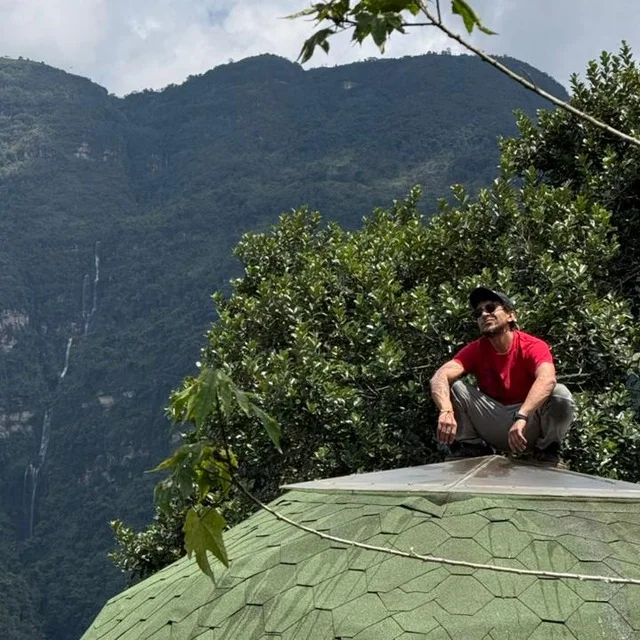
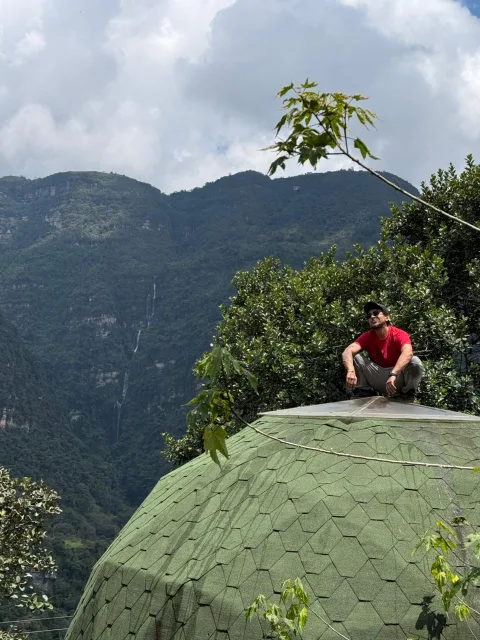
fix(critical): foto correcta del operador + iconos reducidos drásticamente
## Cagada 1 — foto incorrecta

Durante el rediseño, jamás actualicé miguel.webp en el repo correcto
(chagra-landing). El repo tenía la foto vieja del commit 715047e
"foto real del operador en cúpula" que el operador no reconoce como
suya. Mi conversión correcta desde /home/kortux/me.jpeg vivía en el
repo equivocado (chagra.bio vacío).

Fix: copiada la conversión correcta (md5 4c53412af71d685e7795fe42fde5e4f6)
desde /tmp/chagra.bio-clone/assets/miguel.webp al repo deploy.

## Cagada 2 — iconos gigantes

Los SVGs hero del artículo (height: 200px) + card icons (56px) + parte
numero (3.5rem) + drop cap (4.5rem) + pull quote (1.5rem) eran todos
demasiado grandes. Resultaron en una página "asquerosa" (palabras del
operador).

Fix:
- card icon aprender: 56px → 36px (con opacity 0.85)
- mobile card icon: → 30px
- article hero illustration: height 200px → 110px, max-width 520→380px,
  con opacity 0.75 para que no robe protagonismo
- mobile hero illustration: 140px → 80px, max-width 280px
- parte numero: 3.5rem → 2.2rem con opacity 0.7
- stat number: 3rem → 2.25rem
- drop cap: 4.5rem → 2.8rem, sin gradient escandaloso (color emerald simple)
- drop cap selector más restrictivo (solo después de key-takeaways)
- pull quote: 1.5rem → 1.2rem, peso 500 (era 600)

El contenido sigue siendo rico pero ahora los elementos visuales
acompañan en lugar de gritar.

diff --git a/styles.css b/styles.css
@@ -293,7 +293,7 @@ strong{color:var(--fg);font-weight:600}
 .aprender-card::before{content:"";position:absolute;top:0;left:0;right:0;height:3px;background:linear-gradient(90deg,#10b981,#06b6d4);opacity:.6;transition:opacity .25s ease}
 .aprender-card:hover{border-color:#10b981;transform:translateY(-4px);background:linear-gradient(140deg,rgba(16,185,129,.12) 0%,rgba(6,182,212,.07) 50%,rgba(255,255,255,.03) 100%);text-decoration:none;box-shadow:0 12px 32px rgba(16,185,129,.15)}
 .aprender-card:hover::before{opacity:1}
-.aprender-card-icon{width:56px;height:56px;color:#10b981;margin-bottom:.25rem;flex-shrink:0}
+.aprender-card-icon{width:36px;height:36px;color:#10b981;margin-bottom:.1rem;flex-shrink:0;opacity:.85}
 .aprender-card-icon svg{width:100%;height:100%}
 .aprender-tag{display:inline-block;font-size:.72rem;letter-spacing:.12em;text-transform:uppercase;color:#34d399;font-weight:700;padding:.25rem .6rem;background:rgba(16,185,129,.12);border-radius:999px;width:fit-content}
 .aprender-card h3{margin:0;font-size:1.3rem;line-height:1.3;color:#f1f5f9;font-weight:700}
@@ -311,7 +311,7 @@ strong{color:var(--fg);font-weight:600}
 
 /* Hero de artículo (header con ilustración) */
 .article-page .article-hero{padding:2.5rem 0 2rem;margin-bottom:2.5rem;border-bottom:1px solid rgba(255,255,255,.08);position:relative}
-.article-page .article-hero-illustration{width:100%;max-width:520px;height:200px;margin:0 auto 2rem;display:flex;align-items:center;justify-content:center;color:#10b981}
+.article-page .article-hero-illustration{width:100%;max-width:380px;height:110px;margin:0 auto 1.5rem;display:flex;align-items:center;justify-content:center;color:#10b981;opacity:.75}
 .article-page .article-hero-illustration svg{width:100%;height:100%;display:block}
 .article-page h1{font-size:clamp(2rem,5vw,2.8rem);line-height:1.15;letter-spacing:-.02em;margin:0 0 1rem;color:#f8fafc;font-weight:800}
 .article-page .article-subtitle{font-size:1.15rem;color:#94a3b8;font-style:italic;margin:0 0 1.5rem;max-width:640px}
@@ -335,8 +335,8 @@ strong{color:var(--fg);font-weight:600}
 
 /* Parte numerada (separador grande) */
 .article-page .parte-separator{display:flex;align-items:baseline;gap:1rem;margin:4rem 0 1.5rem;padding-top:1.5rem;border-top:1px solid rgba(255,255,255,.08)}
-.article-page .parte-numero{font-size:3.5rem;font-weight:900;background:linear-gradient(135deg,#10b981,#06b6d4);-webkit-background-clip:text;background-clip:text;-webkit-text-fill-color:transparent;line-height:1;font-variant-numeric:tabular-nums}
-.article-page .parte-titulo{font-size:1.4rem;color:#f1f5f9;font-weight:700;line-height:1.2}
+.article-page .parte-numero{font-size:2.2rem;font-weight:900;background:linear-gradient(135deg,#10b981,#06b6d4);-webkit-background-clip:text;background-clip:text;-webkit-text-fill-color:transparent;line-height:1;font-variant-numeric:tabular-nums;opacity:.7}
+.article-page .parte-titulo{font-size:1.35rem;color:#f1f5f9;font-weight:700;line-height:1.2}
 
 /* Encabezados */
 .article-page h2{font-size:clamp(1.5rem,3vw,1.85rem);margin:3rem 0 1rem;color:#f1f5f9;font-weight:700;line-height:1.25;letter-spacing:-.01em}
@@ -346,17 +346,16 @@ strong{color:var(--fg);font-weight:600}
 
 /* Texto + drop cap */
 .article-page p{margin-bottom:1.1rem;color:#cbd5e1}
-.article-page .article-hero + section > p:first-of-type::first-letter,
-.article-page .article-body > p:first-of-type::first-letter,
-.article-page .parte-separator + p::first-letter{
+/* Drop cap reducido y más sobrio — sin gradient escandaloso */
+.article-page .article-hero + .key-takeaways + p::first-letter,
+.article-page .key-takeaways + p::first-letter{
   float:left;
-  font-size:4.5rem;
-  line-height:.85;
-  padding-right:.75rem;
-  padding-top:.25rem;
-  background:linear-gradient(135deg,#10b981,#06b6d4);
-  -webkit-background-clip:text;background-clip:text;-webkit-text-fill-color:transparent;
-  font-weight:900;
+  font-size:2.8rem;
+  line-height:.9;
+  padding-right:.5rem;
+  padding-top:.15rem;
+  color:#34d399;
+  font-weight:700;
 }
 .article-page strong{color:#f8fafc;font-weight:700}
 .article-page em{color:#a7f3d0}
@@ -367,13 +366,13 @@ strong{color:var(--fg);font-weight:600}
 
 /* Pull quote */
 .article-page .pull-quote{
-  font-size:1.5rem;
-  font-weight:600;
-  line-height:1.4;
-  color:#f1f5f9;
-  margin:2.5rem 0;
-  padding:0 1rem 0 2rem;
-  border-left:4px solid #10b981;
+  font-size:1.2rem;
+  font-weight:500;
+  line-height:1.5;
+  color:#e2e8f0;
+  margin:2rem 0;
+  padding:0 1rem 0 1.5rem;
+  border-left:3px solid #10b981;
   font-style:italic;
 }
 .article-page .pull-quote cite{display:block;font-size:.9rem;font-style:normal;color:#94a3b8;margin-top:.5rem;font-weight:400}
@@ -391,8 +390,8 @@ strong{color:var(--fg);font-weight:600}
   margin:2rem 0;
 }
 .article-page .stat-number{
-  font-size:3rem;
-  font-weight:900;
+  font-size:2.25rem;
+  font-weight:800;
   background:linear-gradient(135deg,#10b981,#06b6d4);
   -webkit-background-clip:text;background-clip:text;-webkit-text-fill-color:transparent;
   line-height:1;
@@ -475,7 +474,8 @@ strong{color:var(--fg);font-weight:600}
 /* Responsive */
 @media(max-width:640px){
   .article-page{font-size:17px;line-height:1.75}
-  .article-page .article-hero-illustration{height:140px}
+  .article-page .article-hero-illustration{height:80px;max-width:280px;margin-bottom:1rem}
+  .aprender-card-icon{width:30px;height:30px}
   .article-page .stat-callout{grid-template-columns:1fr;text-align:center;padding:1.25rem}
   .article-page .stat-number{font-size:2.5rem}
   .article-page .parte-numero{font-size:2.5rem}